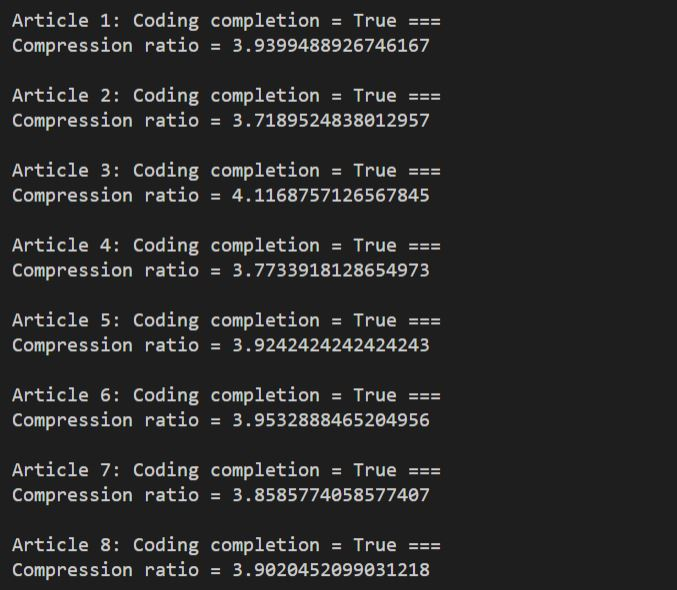
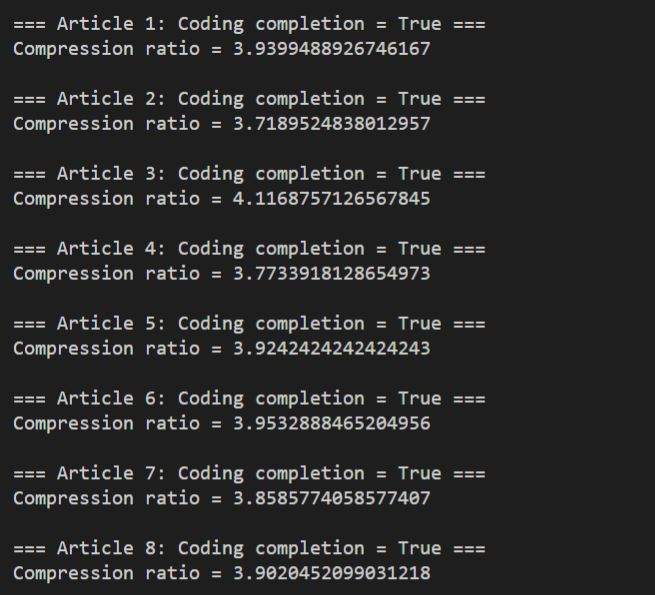
2022.05.07 16.35

diff --git a/ContextModeling.py b/ContextModeling.py
@@ -197,6 +197,6 @@ if __name__ == '__main__':
         text  = line.lower()[:-2]
         ciphertext = contextmodeling(text, set)
         recovered_text = inv_contextmodeling(ciphertext, len(text), set)
-        print('Article {}: Coding completion = {} ==='.format(idx, (text==recovered_text)))
+        print('=== Article {}: Coding completion = {} ==='.format(idx, (text==recovered_text)))
         print('Compression ratio = {}\n'.format(sys.getsizeof(text)*29/sys.getsizeof(ciphertext)/2))
         idx += 1
